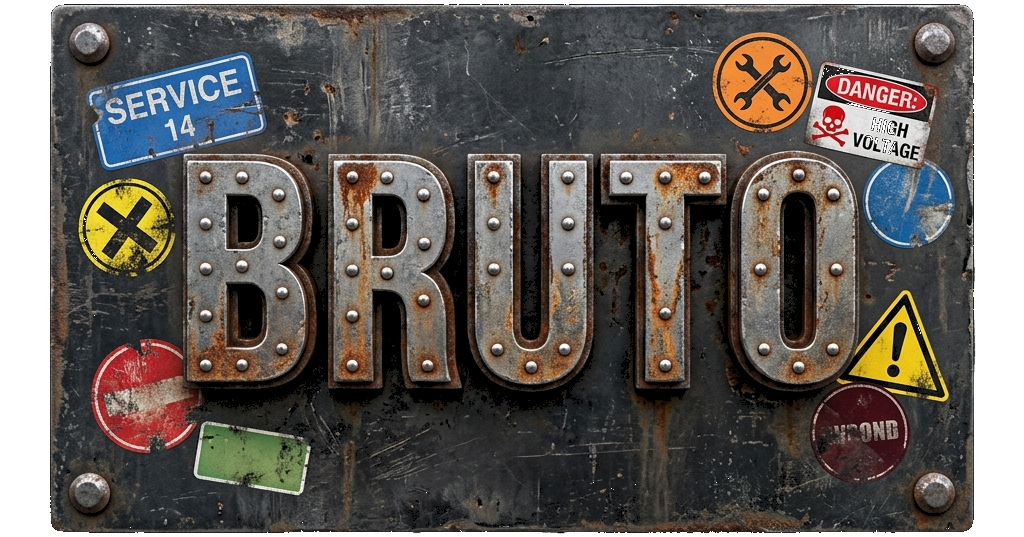
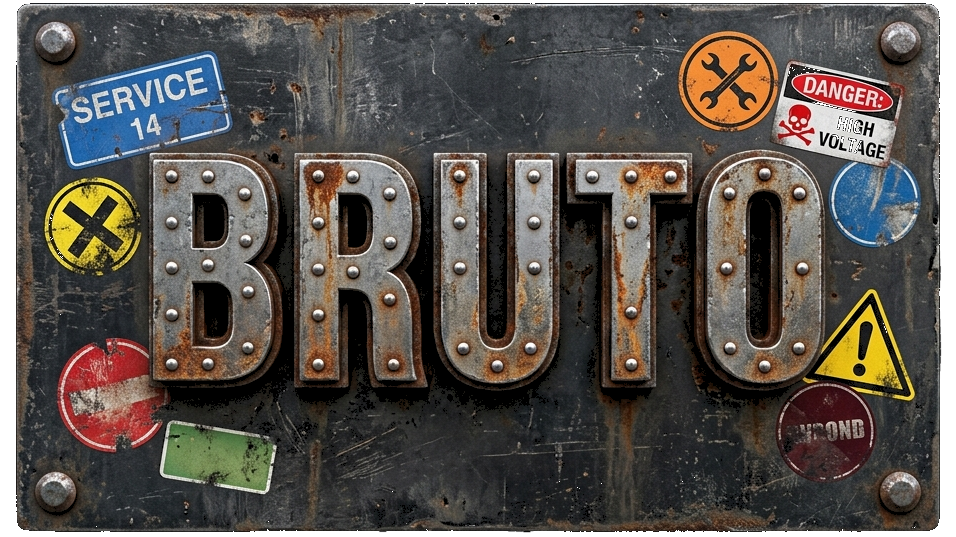
Add files via upload

diff --git a/style.css b/style.css
@@ -304,11 +304,12 @@ body::after {
 }
 
 .decor-label-danger {
-    top: 30px;
+    top: 15px; /* subido 15px desde 30px */
     right: -30px;
     background: var(--neon-orange);
     color: #000;
     transform: rotate(12deg);
+    z-index: 6; /* por encima de la placa y el dial */
 }
 
 /* Graffiti de fondo debajo del perfil que sobresale del container */
@@ -2073,19 +2074,22 @@ body::after {
         left: -6px;
     }
     .profile-photo-dial {
-        width: 280px;
-        height: 280px;
+        position: relative;
+        left: 50%;
+        transform: translateX(-50%);
+        width: 360px;
+        height: 360px;
         margin-bottom: 0.8rem;
     }
     .profile-photo-dial .profile-photo-container {
-        width: 175px;
-        height: 175px;
+        width: 225px;
+        height: 225px;
     }
     .tap-indicator-wrapper {
-        bottom: 12px;
+        bottom: 15px;
     }
     .tap-indicator-tape-img {
-        width: 168px;
+        width: 220px;
     }
     .hazard-subtitle-tape {
         width: calc(100% + 1.6rem);
@@ -2093,6 +2097,14 @@ body::after {
         margin-right: -0.8rem;
         padding: 0.5rem 1rem;
         font-size: 1.15rem;
+    }
+    .profile-title-container {
+        width: calc(100% + 1.6rem);
+        max-width: none;
+        position: relative;
+        left: 0;
+        transform: none;
+        margin: -1.8rem -0.8rem 0.4rem -0.8rem;
     }
     .profile-name {
         margin-top: calc(-2.1rem - 5px); /* Desplazado 5px hacia arriba */
@@ -2114,7 +2126,7 @@ body::after {
     }
     .decor-label-danger {
         right: -5px;
-        top: 10px;
+        top: -5px; /* subido 15px */
     }
 
     .info-section:nth-of-type(odd) h2, .info-section.title-left h2 {
@@ -2151,9 +2163,11 @@ body::after {
 /* 1. Marco Engranaje / Dial de Foto de Perfil (Propuesta 3D) */
 .profile-photo-dial {
     position: relative;
-    width: 416px; /* Aumentado 30% desde 320px */
-    height: 416px; /* Aumentado 30% desde 320px */
-    margin: 0 auto 1.2rem auto;
+    left: 50%;
+    transform: translateX(-50%);
+    width: 540px; /* Aumentado otro 30% desde 416px */
+    height: 540px; /* Aumentado otro 30% desde 416px */
+    margin: 0 0 1.2rem 0;
     z-index: 2;
 }
 
@@ -2180,8 +2194,8 @@ body::after {
     top: 50%;
     left: 50%;
     transform: translate(-50%, -50%);
-    width: 260px; /* Aumentado 30% desde 200px */
-    height: 260px; /* Aumentado 30% desde 200px */
+    width: 338px; /* Aumentado otro 30% desde 260px */
+    height: 338px; /* Aumentado otro 30% desde 260px */
     border-radius: 50%;
     border: none;
     overflow: hidden;
@@ -2200,7 +2214,7 @@ body::after {
 /* Indicador y LED en la posición exacta de la propuesta (Centro Inferior) */
 .tap-indicator-wrapper {
     position: absolute;
-    bottom: 29px; /* Proporcional a la nueva escala (+30%) */
+    bottom: 38px; /* Proporcional a la nueva escala (+30%) */
     left: 50%;
     transform: translateX(-50%) rotate(-1deg);
     display: flex;
@@ -2212,7 +2226,7 @@ body::after {
 }
 
 .tap-indicator-tape-img {
-    width: 254px; /* Aumentado 30% desde 195px */
+    width: 330px; /* Aumentado otro 30% desde 254px */
     height: auto;
     filter: drop-shadow(2px 4px 6px rgba(0, 0, 0, 0.7));
 }
@@ -2235,10 +2249,12 @@ body::after {
 
 /* Contenedor de Placa Metálica "BRUTO" con 9 Stickers */
 .profile-title-container {
-    width: 100%;
-    max-width: 440px;
-    margin: -2.3rem auto 0.8rem auto;
+    width: calc(100% + 3rem);
+    max-width: none;
     position: relative;
+    left: 0;
+    transform: none;
+    margin: -2.8rem -1.5rem 0.8rem -1.5rem;
     z-index: 5;
     display: flex;
     justify-content: center;
@@ -2450,11 +2466,9 @@ body::after {
 }
 
 .gallery-modal-content {
-    border: 4px solid #000 !important;
-    background: #050705 !important;
-    box-shadow: 
-        0 0 0 3px #475569,
-        0 20px 50px rgba(0, 0, 0, 0.95) !important;
+    border: none !important;
+    background: transparent !important;
+    box-shadow: none !important;
 }
 
 .gallery-close-btn {
@@ -2465,26 +2479,32 @@ body::after {
 /* Responsividad para dial de fotos en móviles */
 @media (max-width: 480px) {
     .profile-photo-dial {
-        width: 325px; /* Escalado +30% de 250px */
-        height: 325px; /* Escalado +30% de 250px */
+        width: 420px; /* Aumentado 30% desde 325px */
+        height: 420px;
         margin-bottom: 1rem;
     }
     .profile-photo-dial .profile-photo-container {
-        width: 203px; /* Escalado +30% de 156px */
-        height: 203px; /* Escalado +30% de 156px */
+        width: 260px; /* Aumentado 30% desde 203px */
+        height: 260px;
     }
     .tap-indicator-wrapper {
-        bottom: 15px;
+        bottom: 20px;
     }
     .tap-indicator-tape-img {
-        width: 195px; /* Escalado +30% de 150px */
+        width: 250px;
     }
     .tap-indicator-led {
         width: 13px;
         height: 13px;
     }
     .profile-title-container {
-        margin-top: -1.7rem;
+        width: calc(100% + 3rem);
+        max-width: none;
+        margin-top: -2.2rem;
+        margin-left: -1.5rem;
+        margin-right: -1.5rem;
+        left: 0;
+        transform: none;
     }
 }
 

diff --git a/index.html b/index.html
@@ -77,10 +77,11 @@
                 <div class="header-decorations-bg">
                     <img src="Macha de Aceite.png" class="decor-oil" alt="" aria-hidden="true">
                     <img src="Rasguños de Metal.png" class="decor-scratches" alt="" aria-hidden="true">
-                    <div class="decor-label decor-label-danger" aria-hidden="true">DANGER</div>
                     <!-- Imagen de Graffiti de fondo debajo del perfil (Mancha chorreante degradada) -->
                     <img src="grafitti_mancha.png" class="decor-graffiti" alt="" aria-hidden="true">
                 </div>
+
+                <div class="decor-label decor-label-danger" aria-hidden="true">DANGER</div>
 
                 <!-- Contenedor del Dial Industrial de la Foto (Brida Industrial 3D) -->
                 <div class="profile-photo-dial">
